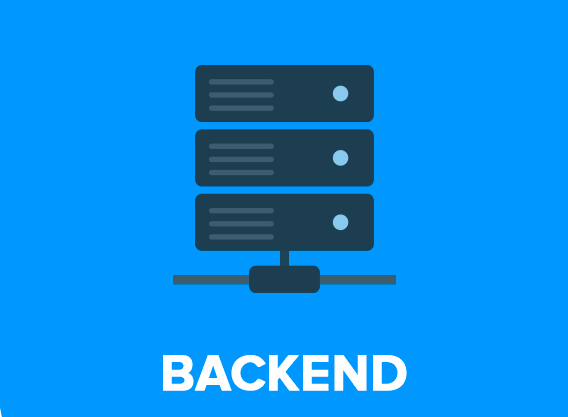
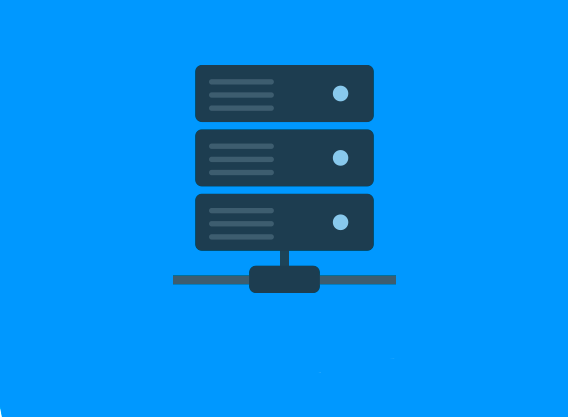
prettified the cards

Changed region(s): [[0.2694, 0.8417, 0.7183, 0.9353]]

diff --git a/src/components/Cards.js b/src/components/Cards.js
@@ -10,7 +10,46 @@ class Cards extends Component {
 
     render() {
 
-        const frontEndText = <div><p>React Redux</p></div>
+        const frontEndText = (
+            <div>
+                <h4>Frontend</h4>
+                <br></br>
+                <p>React | Redux</p>
+                {/* <div className="divider"></div> */}
+                <p>JavaScript</p>
+                <p>Java Spring</p>
+            </div>
+        );
+
+        const backEndText = (
+            <div>
+                <h4>Backend</h4>
+                <br></br>
+                <p>Java | Spring Boot</p>
+                <p>NodeJS</p>
+                <p>Express</p>
+            </div>
+        );
+
+        const databaseText = (
+            <div>
+                <h4>Database</h4>
+                <br></br>
+                <p>mySQL</p>
+                <p>MongoDB</p>
+                <p>PostgreSQL</p>
+            </div>
+        );
+
+        const deploymentText = (
+            <div>
+                <h4>Deployment</h4>
+                <br></br>
+                <p>Heroku</p>
+                <p>Git</p>
+                <p>AWS</p>
+            </div>
+        );
 
         return (
             <div className="container-fluid d-flex justify-content-center">
@@ -21,13 +60,13 @@ class Cards extends Component {
                         <CardSlide imagePath={frontend} text={frontEndText}></CardSlide>
                     </div>
                     <div className="col-md-3">
-                        <CardSlide imagePath={backend} text="Java Spring Boot"></CardSlide>
+                        <CardSlide imagePath={backend} text={backEndText}></CardSlide>
                     </div>
                     <div className="col-md-3">
-                        <CardSlide imagePath={database}></CardSlide>
+                        <CardSlide imagePath={database} text={databaseText}></CardSlide>
                     </div>
                     <div className="col-md-3">
-                        <CardSlide imagePath={deployment}></CardSlide>
+                        <CardSlide imagePath={deployment} text={deploymentText}></CardSlide>
                     </div>
 
                 </div>

diff --git a/src/App.js b/src/App.js
@@ -58,7 +58,7 @@ const App = (props) => {
                 <ButtonDropdown isOpen={dropdownOpen} toggle={menuToggle} direction="left">
                     <DropdownToggle carpet style={{ fontFamily: "Pacifico" }}>Menu</DropdownToggle>
                     <DropdownMenu >
-                        <DropdownItem href="https://github.com/TheAllen"><body>Github</body></DropdownItem>
+                        <DropdownItem href="https://github.com/TheAllen">Github</DropdownItem>
                         <DropdownItem divider></DropdownItem>
                         <DropdownItem>Contact me</DropdownItem>
                     </DropdownMenu>

diff --git a/src/components/card-style.css b/src/components/card-style.css
@@ -7,5 +7,27 @@ body {
 } */
 
 .card:hover {
-    box-shadow:5px 10px 20px 1px rgba(88, 66, 212, 0.253)!important;
+    box-shadow:5px 10px 20px 1px rgba(61, 49, 131, 0.253)!important;
+}
+
+.card-body {
+    padding: 0.5rem 0 !important;
+}
+
+.card-text {
+    font-size: .9rem;
+}
+
+
+.overflow {
+    overflow: hidden;
+}
+
+.card-img-top {
+    transform: scale(1);
+    transition: transform 0.5s ease;
+}
+
+.card-img-top:hover {
+    transform: scale(1.2);
 }
